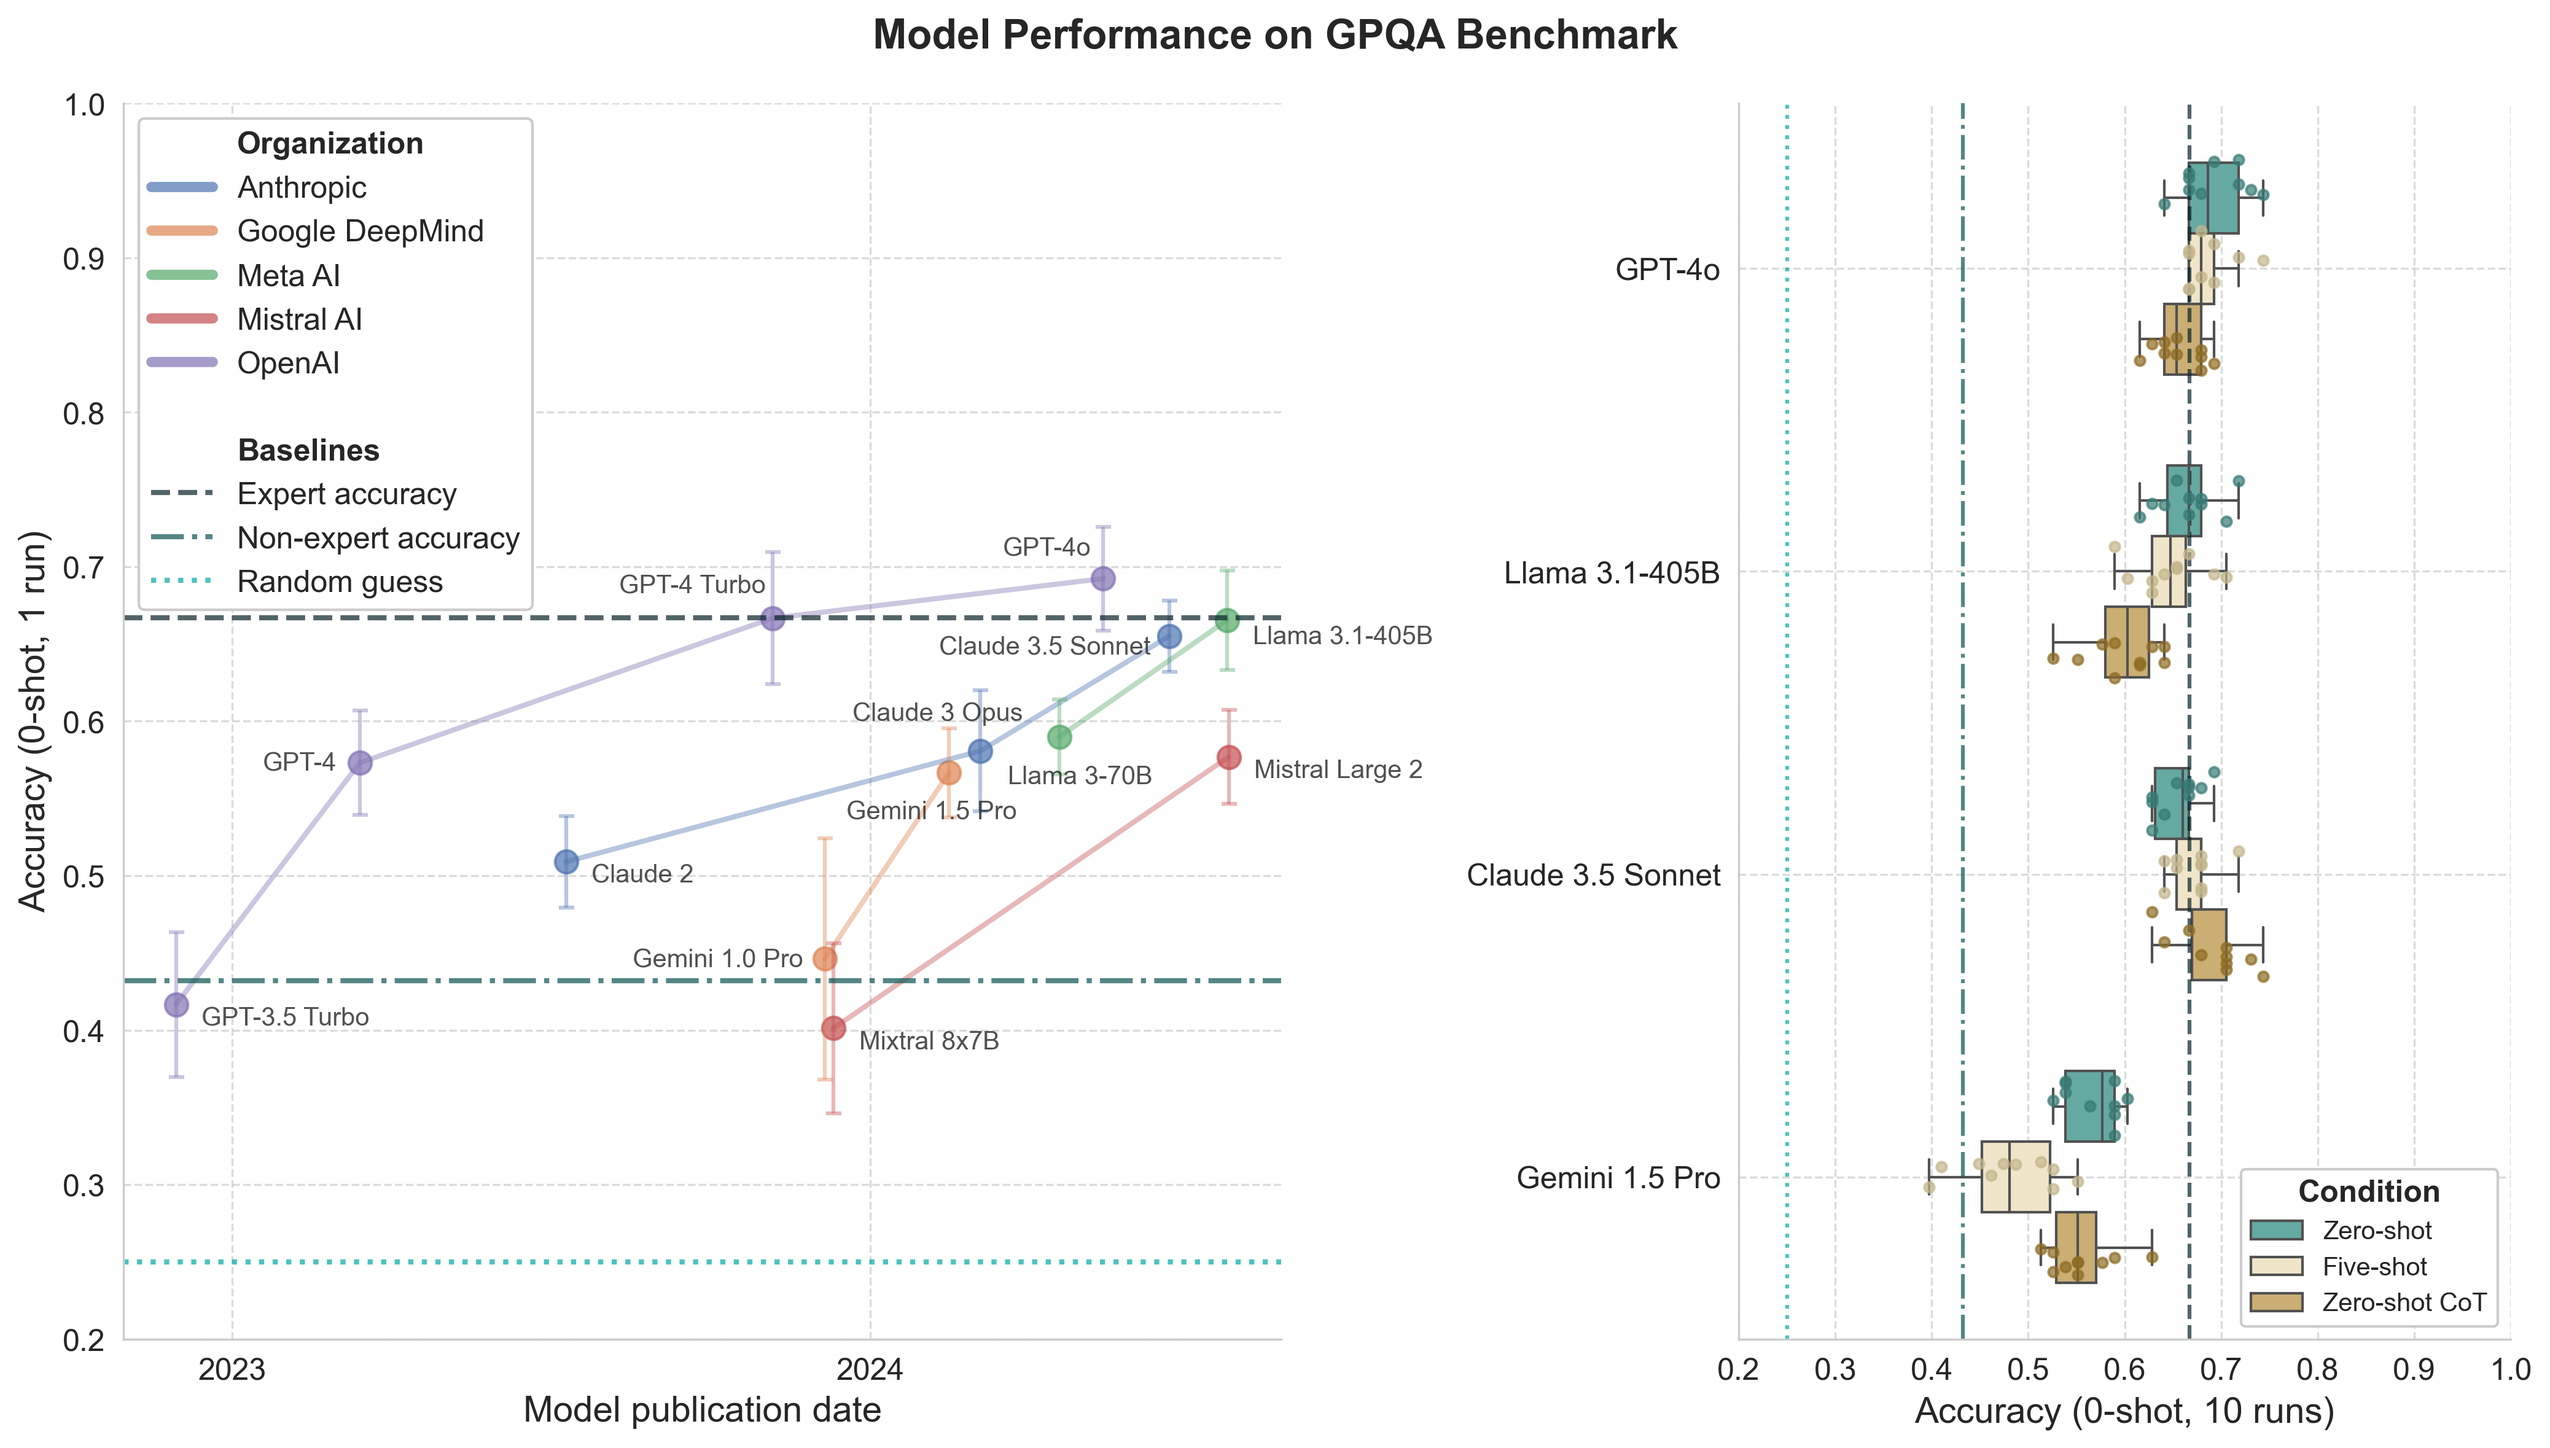
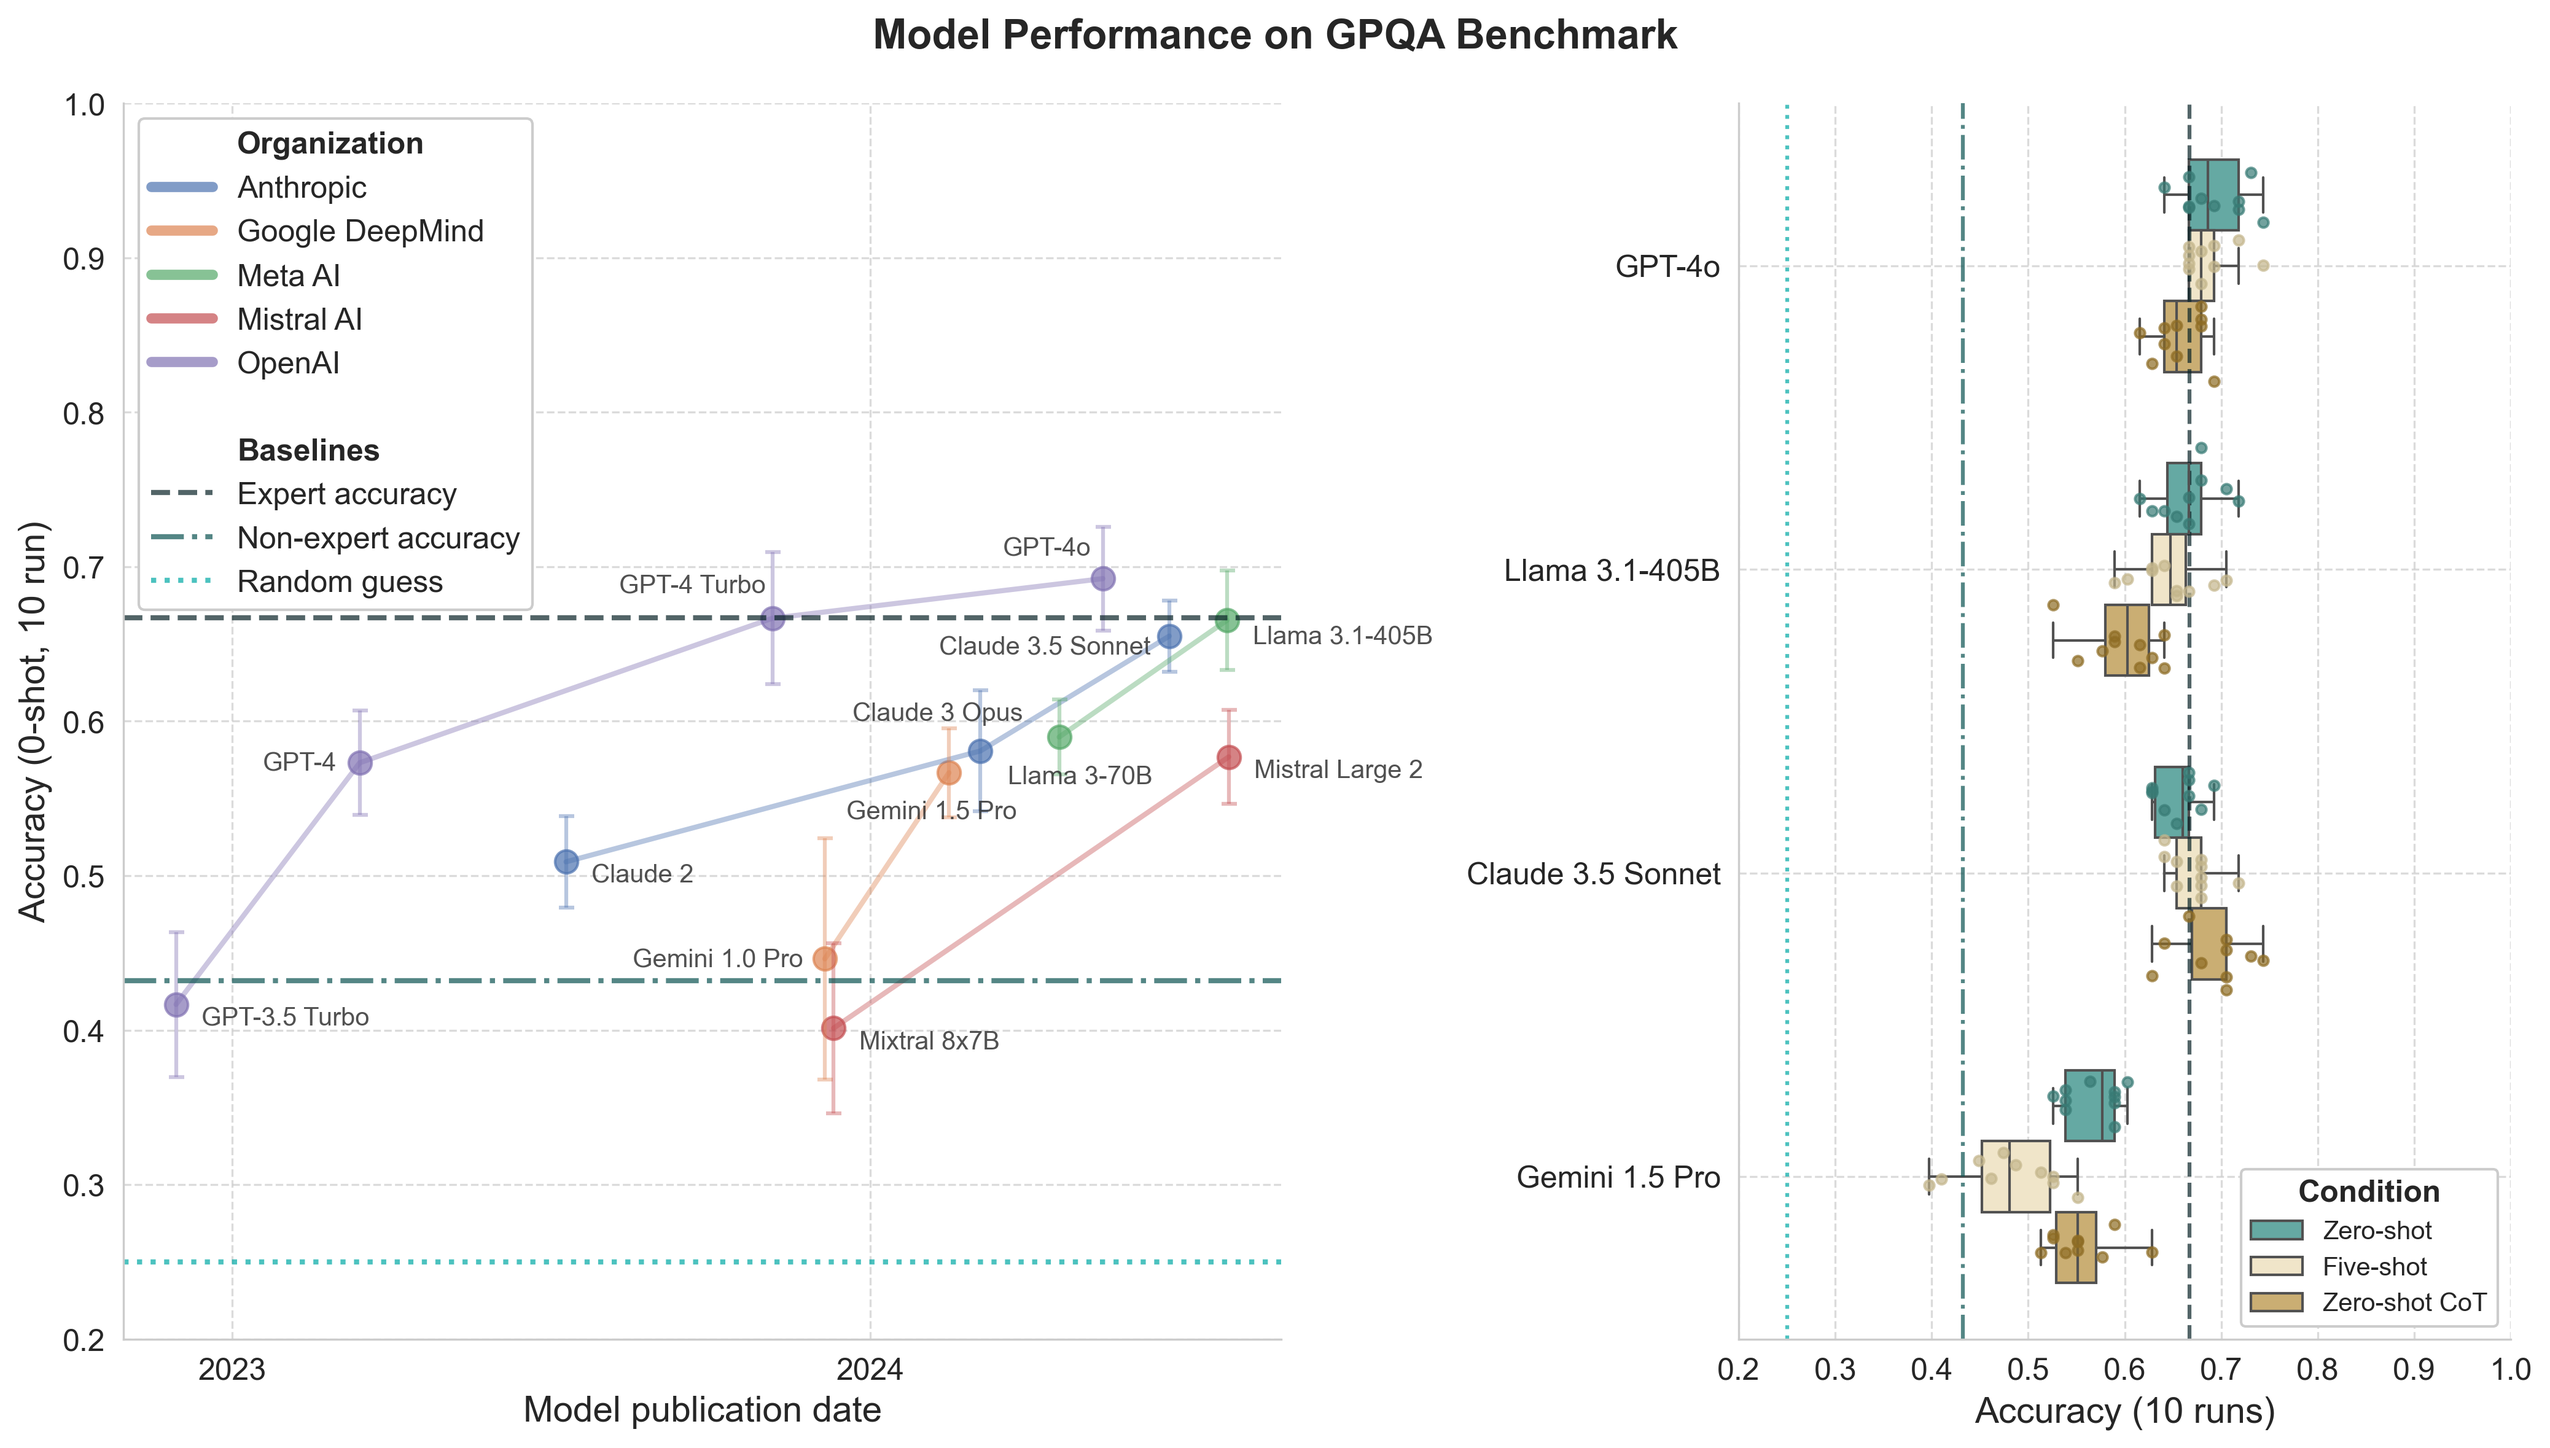
update figures and plot axis labels

diff --git a/trendlines-preprint/scripts/plot.py b/trendlines-preprint/scripts/plot.py
@@ -112,7 +112,7 @@ def plot_zero_shot_trendlines(df: pd.DataFrame, benchmark: str, plot_config: dic
     
     # Customize plot
     ax.set_xlabel("Model publication date", fontsize=14)
-    ax.set_ylabel("Accuracy (0-shot, 1 run)", fontsize=14)
+    ax.set_ylabel("Accuracy (0-shot, 10 run)", fontsize=14)
     ax.set_ylim(ylim)
     
     # Format x-axis
@@ -223,7 +223,7 @@ def plot_top_models_by_promt_schema(df: pd.DataFrame, plot_config: dict, ax):
                       color=color, alpha=0.7, s=15, zorder=10)
     
     # Customize plot
-    ax.set_xlabel('Accuracy (0-shot, 10 runs)', fontsize=14)
+    ax.set_xlabel('Accuracy (10 runs)', fontsize=14)
     ax.set_ylabel('')
     ax.set_xlim(plot_config['xlim'])
     
